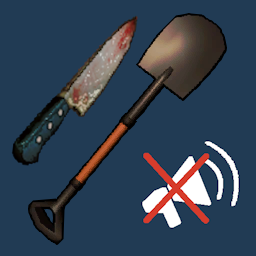
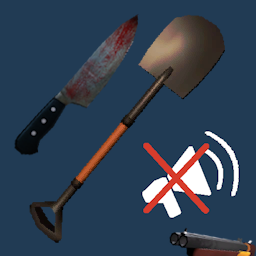
MeleeFixes updated to 1.4.0

diff --git a/ModdedBuild/BepInEx/plugins/ButteryStancakes-MeleeFixes/README.md b/ModdedBuild/BepInEx/plugins/ButteryStancakes-MeleeFixes/README.md
@@ -1,14 +1,8 @@
 # Melee Fixes
-Fixes bugs with the shovel and kitchen knife:
+Fixes bugs with the shovel, kitchen knife, and shotgun:
 - Fixed shovel sometimes becoming unusable if a player died while holding it mid-swing.
 - Fixed hit effects (shovel bounce, knife blood spray) sometimes playing even if your swing misses, providing poor feedback.
-- Whenever a weapon plays a hit sound, it calls an expensive search function that can cause lag or frame drops on less powerful computers. It now references a cached instance of the required object, which should help combat remain more smooth and fluid.
-
-<details>
-<summary>Removed (fixed in vanilla, v56-60)</summary>
-
-- Fixed hits being blocked by non-solid triggers, causing enemies to not register damage in certain dungeon rooms.
-- Fixed the shovel bouncing off of an invisible wall every swing if you are being monitored on the ship camera.
-- Fixed certain targets being damaged multiple times in a single swing.
-
-</details>
+- Whenever a melee weapon plays a hit sound, it calls an expensive search function that can cause lag or frame drops on less powerful computers.
+  - It now references a cached instance of the required object, which should help combat remain more smooth and fluid.
+- [Damage should now be handled more consistently when firing the shotgun at multiple enemies](https://thunderstore.io/c/lethal-company/p/Zaggy1024/NutcrackerFixes/)
+- Fixed duration of ear-ringing effect when a shotgun is shot in point-blank range (usually, because you are the one holding it)

diff --git a/README.md b/README.md
@@ -80,7 +80,7 @@ List of mods:<br>
  DramaMask  2.1.4<br>
  Lethal_Doors_Fixed  1.2.0<br>
  LCMaxSoundsFix  1.2.0<br>
- MeleeFixes  1.3.1<br>
+ MeleeFixes  1.4.0<br>
  Runtime_Netcode_Patcher  0.2.5<br>
  LightningRod  1.0.5<br>
  StopBeesOpeningDoors  1.1.0<br>

diff --git a/ModdedBuild/BepInEx/plugins/ButteryStancakes-MeleeFixes/CHANGELOG.md b/ModdedBuild/BepInEx/plugins/ButteryStancakes-MeleeFixes/CHANGELOG.md
@@ -1,3 +1,5 @@
+# v1.4.0
+- Ported over some shotgun fixes from [Buttery Fixes](https://thunderstore.io/c/lethal-company/p/ButteryStancakes/ButteryFixes/)
 # v1.3.1
 - Re-upload to update Thunderstore description for v60
 # v1.3.0
